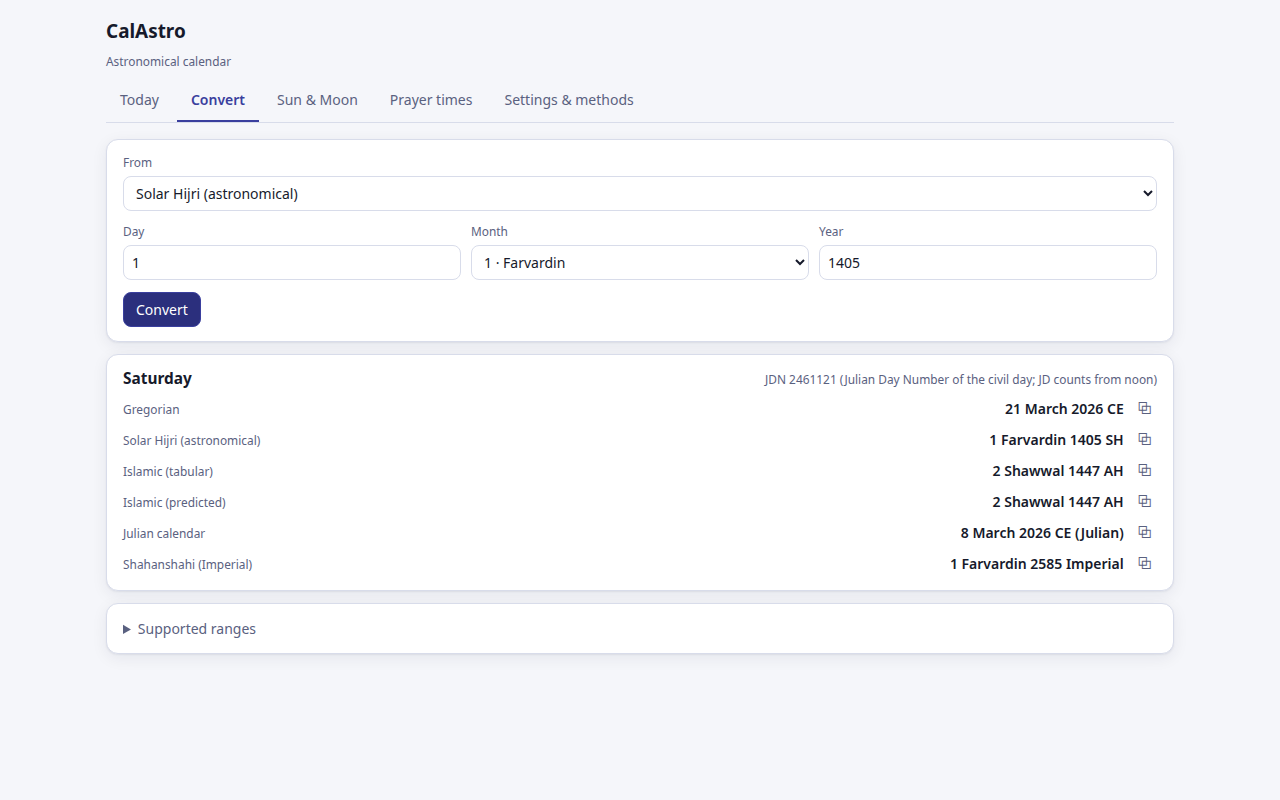
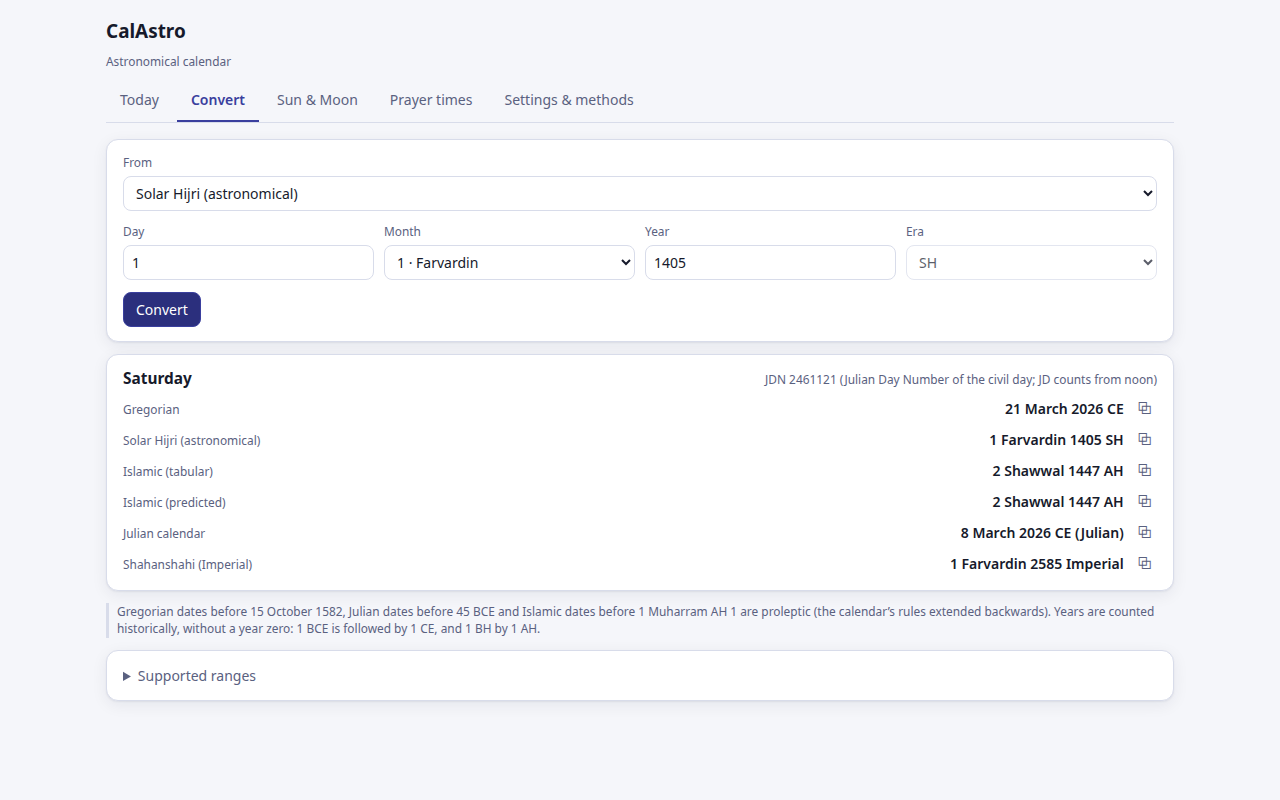
BCE/BH range for arithmetic calendars; Moon cycle with dates; refreshed screenshots

diff --git a/docs/methods.md b/docs/methods.md
@@ -43,8 +43,11 @@ CalAstro computes everything on your device from data packaged with the extensio
 - **Lunar age:** time since the last geocentric conjunction in ecliptic longitude.
 
 ## Calendars
-- **Gregorian and Julian:** proleptic, with exact integer arithmetic. Julian calendar dates
-  are different from Julian Day Numbers.
+- **Gregorian and Julian:** proleptic, with exact integer arithmetic, from 999,999 BCE to
+  999,999 CE.
+  - Years are shown historically (no year zero).
+  - Internally CalAstro uses astronomical numbering (1 BCE = 0, 2 BCE = −1).
+  - Julian calendar dates are different from Julian Day Numbers.
 - **Solar Hijri (astronomical):**
   - The year starts on the day of the March equinox if the equinox occurs before true
     (apparent) solar noon on the 52.5°E meridian; otherwise it starts on the next day. This is
@@ -56,8 +59,9 @@ CalAstro computes everything on your device from data packaged with the extensio
 - **Shahanshahi (Imperial):** Solar Hijri months and days with year + 1180, in official use
   from 1355 to 1357 SH.
 - **Tabular Islamic:** 30-year cycles of van Gent's types I–IV, with the Friday (civil) or
-  Thursday (astronomical) epoch of 1 Muharram AH 1. Days are counted from midnight; the
-  religious day begins at sunset.
+  Thursday (astronomical) epoch of 1 Muharram AH 1.
+  - Years before AH 1 are counted BH (before Hijra), proleptically.
+  - Days are counted from midnight; the religious day begins at sunset.
 - **Predicted Islamic:**
   - **Umm al-Qura rule (default):** at Makkah on the 29th, if the conjunction precedes sunset
     and the Moon sets after the Sun, the next day begins the month.

diff --git a/README.md b/README.md
@@ -50,7 +50,9 @@ announcements**. Displayed times are rounded to the minute. Real atmospheric ref
 change sunrise and sunset by more than that.
 
 ## Supported range
-- **Arithmetic calendars:** 1–9999 CE.
+- **Gregorian, Julian and tabular Islamic:** 999,999 BCE to 999,999 CE, including years before
+  the Hijra (BH). These calendars are arithmetic, so they are proleptic before their historical
+  introduction.
 - **Sun, Moon and prayer times:** 1550–2649 CE.
 - **Astronomical Solar Hijri:** 929–2027 SH.
 

diff --git a/CHANGELOG.md b/CHANGELOG.md
@@ -3,9 +3,9 @@
 ## 1.0.0 — unreleased
 First public release.
 - Calendar conversion:
-  - Gregorian and Julian;
+  - Gregorian and Julian, 999,999 BCE – 999,999 CE;
   - astronomical Solar Hijri and Shahanshahi;
-  - tabular Islamic (types I–IV);
+  - tabular Islamic (types I–IV), including years before the Hijra (BH);
   - predicted Islamic (Umm al-Qura rule; Yallop or Odeh crescent visibility).
 - Sun and Moon:
   - rise, set, transit and the three twilights for the local day, with polar states;

diff --git a/docs/user-guide.md b/docs/user-guide.md
@@ -15,7 +15,9 @@
 ## Converting dates
 On **Convert**:
 1. Choose the calendar you are converting from.
-2. Enter the day, month and year.
+2. Enter the day, month and year. For Gregorian, Julian and tabular Islamic, choose the era:
+   CE or BCE, AH or BH. Years have no zero, so 1 BCE is followed by 1 CE. BCE results also show
+   the astronomical year number (1 BCE = year 0).
 3. Press **Convert**.
 
 The same day is shown in every calendar, with its weekday and Julian Day Number. Each result
